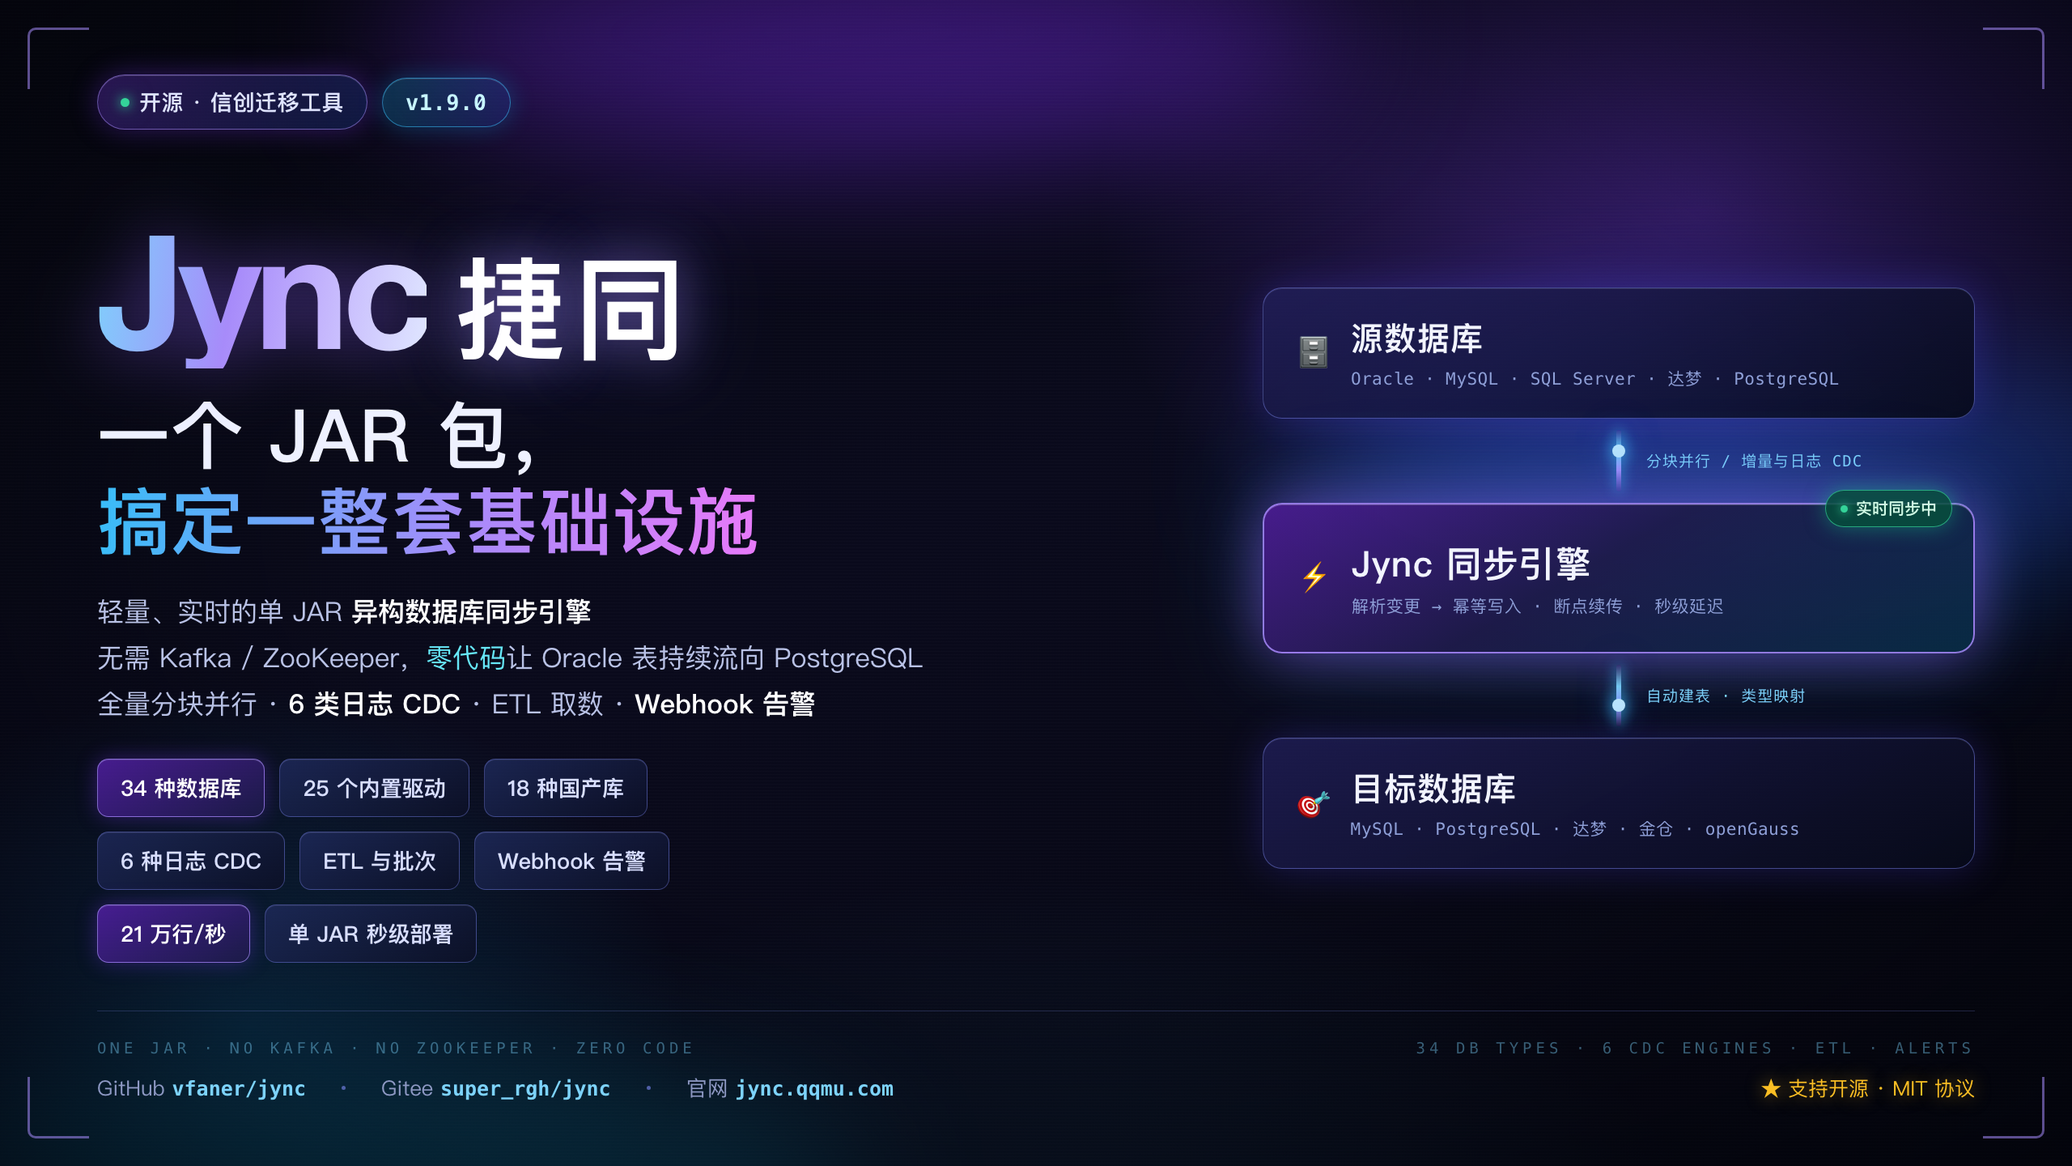
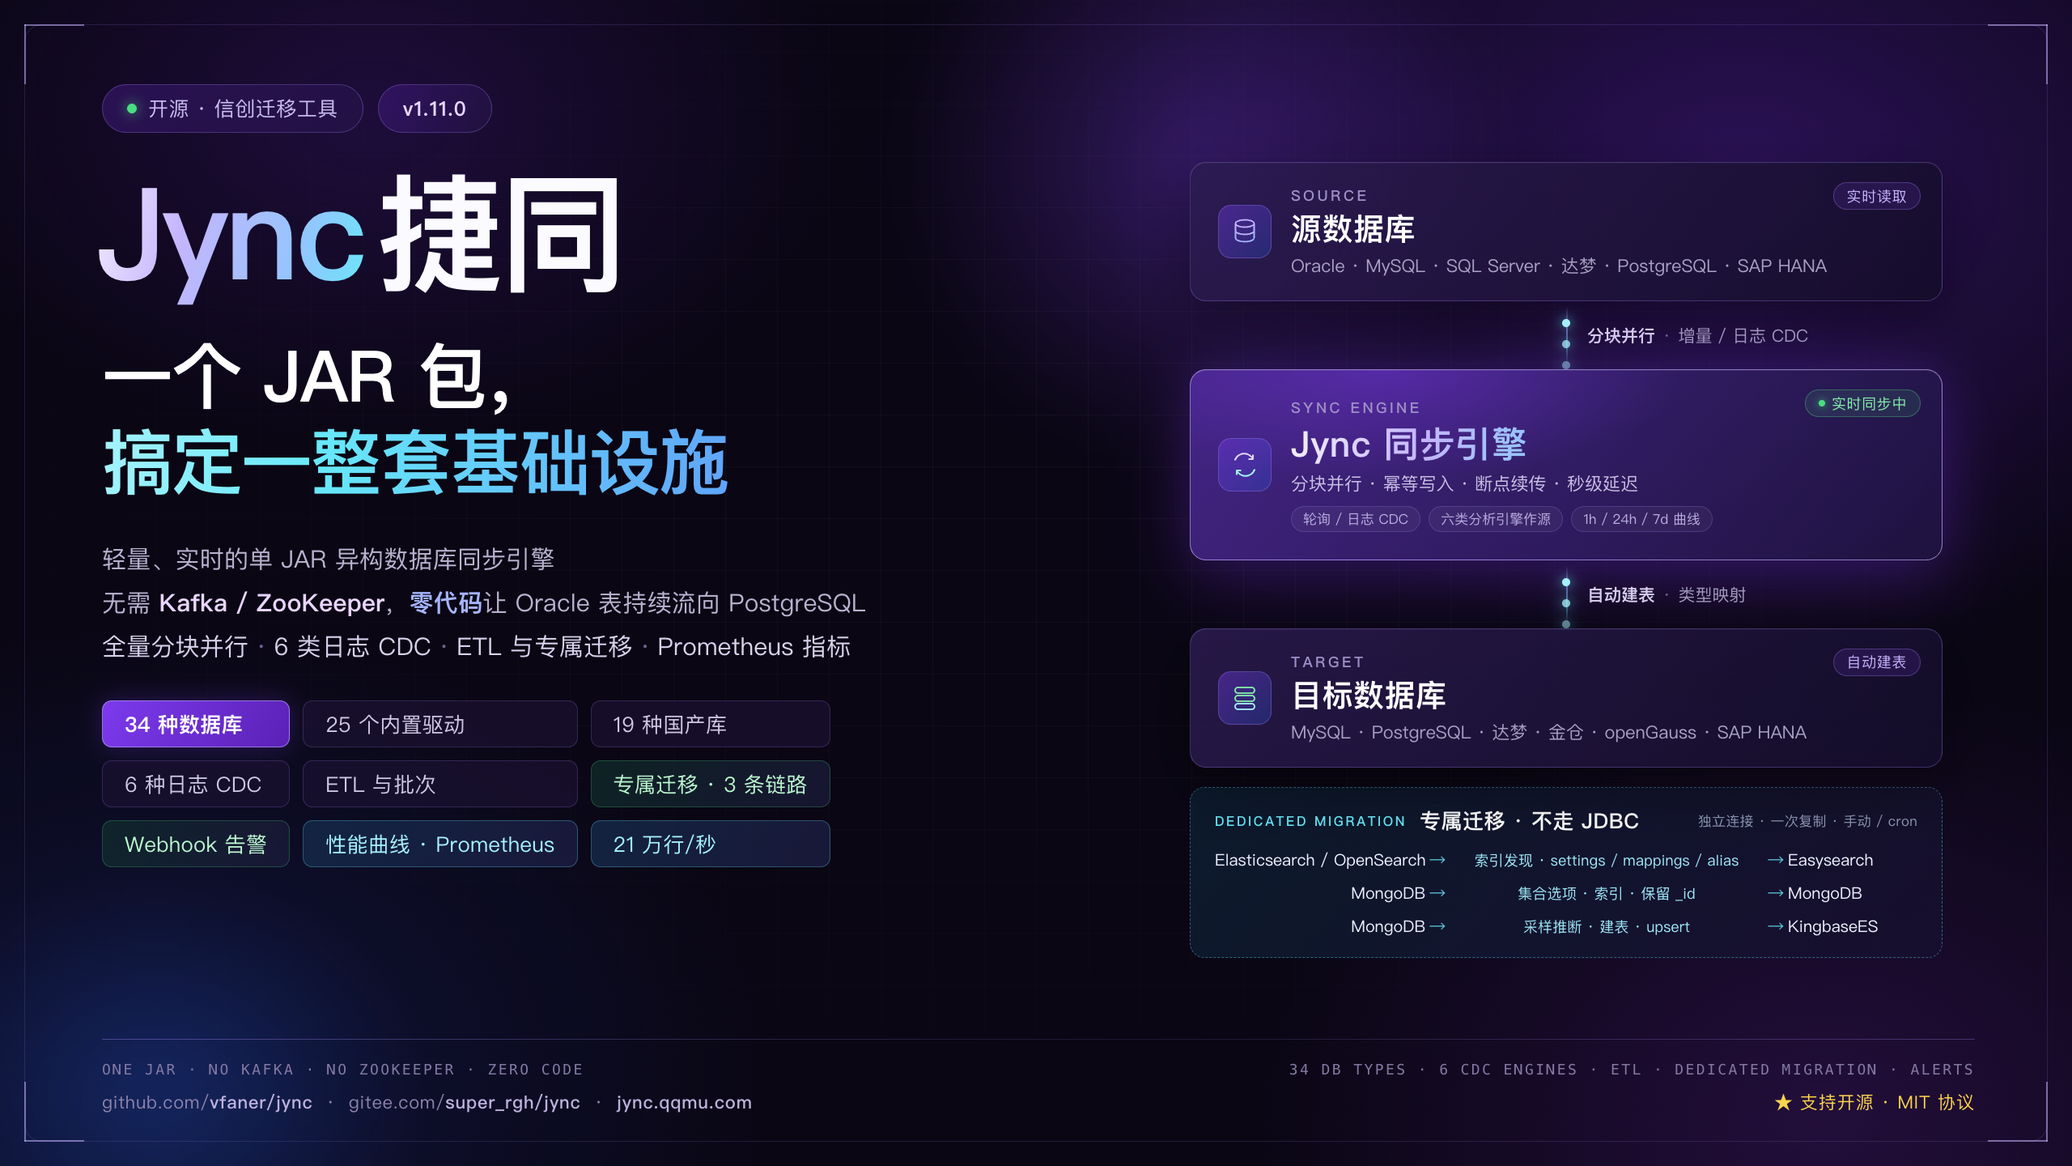
docs(readme): 更新 README 与配图，补充专属迁移链路
- 首图改用 docs/images/jync.png，不再用整页长截图充当封面
- 简介、能力表、架构树补上三条不走 JDBC 的专属迁移链路，并说明它们与
  实时同步、ETL 的连接模型隔离
- 重新生成数据库支持图，加入 04 专属迁移分组
- 测试数更新为 4439（4438 通过）

diff --git a/README_EN.md b/README_EN.md
@@ -9,9 +9,9 @@
 [![Java 17+](https://img.shields.io/badge/Java-17%2B-orange.svg)](https://openjdk.org/)
 [![Spring Boot 2.7](https://img.shields.io/badge/Spring%20Boot-2.7-brightgreen.svg)](https://spring.io/projects/spring-boot)
 
-![Jync · Heterogeneous Database Real-Time Sync](https://jync.qqmu.com/images/jync_xl.webp)
+![Jync · Heterogeneous Database Real-Time Sync](docs/images/jync.png)
 
-An out-of-the-box web application that keeps **structure and data** in sync between **heterogeneous databases**: start one jar, pick **34 built-in database types (plus custom types)** in a browser, and a sync or ETL pipeline is running — six of them (Doris, ClickHouse, Hive, Impala, Elasticsearch, MongoDB) are analytic engines usable as real-time sync **sources** (polling / full compare only) and in ETL. No Kafka, no Flink, no ZooKeeper, and not a line of job code.
+An out-of-the-box web application that keeps **structure and data** in sync between **heterogeneous databases**: start one jar, pick **34 built-in database types (plus custom types)** in a browser, and a sync or ETL pipeline is running — search and document data additionally gets three **dedicated migration** chains that skip JDBC (Elasticsearch / OpenSearch → Easysearch, MongoDB → MongoDB, MongoDB → KingbaseES). Six of those types (Doris, ClickHouse, Hive, Impala, Elasticsearch, MongoDB) are analytic engines usable as real-time sync **sources** (polling / full compare only) and in ETL. No Kafka, no Flink, no ZooKeeper, and not a line of job code.
 
 - **Zero external dependencies**: a Spring Boot monolith with Thymeleaf server-side rendering, Quartz and an embedded H2 metadata store. Runs air-gapped.
 - **Full load is not a bulk query import**: keyset chunking, in-table parallelism, streamed result sets, per-chunk commits and checkpoints — single-table throughput reaches the **hundreds of thousands of rows per second** range.
@@ -19,6 +19,7 @@ An out-of-the-box web application that keeps **structure and data** in sync betw
 - **Structure travels with data**: missing tables, indexes, views and procedures are created automatically, with built-in dialect type mapping and function conversion.
 - **Resumable by design**: crashes, network drops and killed processes resume from the last checkpoint; every write is idempotent, and changes made while Jync was down are caught up on restart.
 - **Failures reach you**: seven fault categories — sync failures, CDC stalls, data drift and more — can be pushed to DingTalk, WeCom, Feishu or a custom Webhook.
+- **Dedicated migration too**: Elasticsearch / OpenSearch → Easysearch, MongoDB → MongoDB and MongoDB → KingbaseES copy whole indexes or collections over their own connection model, outside JDBC, leaving sync and ETL untouched.
 
 | Resource | Link |
 |---|---|
@@ -264,15 +265,15 @@ Fixed rules apply to string columns **before rows are written to the target**; t
 <a name="databases"></a>
 ## Supported databases
 
-**34 built-in types**, 25 of them with bundled drivers. The map below is from the website: sources on the left, the two engines in the middle, targets on the right; each chip carries the modes it supports. Click it for the full reference.
+**34 built-in types**, 25 of them with bundled drivers. The map below is from the website: the upper part is the JDBC real-time sync / ETL matrix (sources → two engines → targets), the bottom is the separate **dedicated migration** chain; click it for the full reference.
 
-[![Database capability map: sources, sync engines and targets](docs/images/jync_dbmaps.webp)](https://jync.qqmu.com/database.html)
+[![Database capability map and dedicated migration chains](docs/images/jync_dbmaps.webp)](https://jync.qqmu.com/database.html)
 
 - **Custom types**: JDBC URL, driver class and driver jar path, loaded at runtime in an isolated `URLClassLoader`; pick a dialect family (generic / Oracle / MySQL / PostgreSQL / SQL Server / DB2 / SAP HANA).
 - **Bundled drivers**: everything except **GBase, Oscar, Huawei GaussDB, SAP HANA, ClickHouse, Hive, Impala, Elasticsearch and MongoDB (Atlas SQL)** ships with the jar. Those vendors publish no redistributable artifact, so supply the jar and path; the driver class can be overridden on the same card.
 - **Protocol-compatible presets**: GreatDB, UPDRDB and KunDB speak the MySQL protocol; RASESQL and SeaboxSQL speak the PostgreSQL protocol, reusing bundled drivers and dialect families.
 - **Analytic / search engines**: Doris, ClickHouse, Hive, Impala, Elasticsearch and MongoDB have no log-based CDC, so they are **real-time sync sources only** (polling / full compare) and **never targets**; in ETL all but Elasticsearch and MongoDB can be written. MongoDB has two paths: the Atlas SQL JDBC preset and the bundled native driver.
-- **Dedicated migration is not JDBC**: Elasticsearch/OpenSearch → Easysearch, MongoDB → MongoDB and MongoDB → KingbaseES use dedicated connections and tasks, outside the capability matrix above; credentials live in encrypted fields only, and no password is allowed inside a MongoDB URI or Kingbase JDBC URL. See [Known limitations](docs/known-limitations.md#11-专属迁移esopensearch--easysearchmongodb--mongodb--kingbasees).
+- **Dedicated migration is not JDBC**: Elasticsearch/OpenSearch → Easysearch, MongoDB → MongoDB and MongoDB → KingbaseES use dedicated connections and tasks, outside the capability matrix above; the chains are on the [website's database page](https://jync.qqmu.com/database.html#dedicated-migration), credentials live in encrypted fields only, and no password is allowed inside a MongoDB URI or Kingbase JDBC URL. See [Known limitations](docs/known-limitations.md#11-专属迁移esopensearch--easysearchmongodb--mongodb--kingbasees).
 - The GaussDB vs openGauss distinction, TDSQL / PolarDB editions and HANA's CDC limits are covered on the [website's database page](https://jync.qqmu.com/database.html); driver versions and licences are in [THIRD_PARTY_LICENSES.md](THIRD_PARTY_LICENSES.md).
 
 ---
@@ -361,6 +362,25 @@ The most-used `sync.*` keys in `application.yml` (full reference: [User Guide (P
 | `sync.ai.enabled` | `true` | `false` removes the AI menu and endpoint |
 | `app.update-check.enabled` | `true` | New-version check; `false` makes no outbound request |
 | `metrics.enabled` | `true` | Sampling master switch; does not affect the sync path |
+
+Log-based CDC settings (ignore them unless CDC is enabled):
+
+| Key | Default | Meaning |
+|---|---|---|
+| `sync.cdc.server-id-offset` | `612000` | Fake MySQL replica server-id base; id = offset + task id |
+| `sync.cdc.lock-ttl-ms` | `30000` | CDC consumer lease |
+| `sync.cdc.supervise-interval-ms` | `10000` | CDC lease supervision period |
+| `sync.cdc.connect-timeout-ms` | `10000` | Timeout for connecting to the source |
+| `sync.cdc.reconnect-backoff-ms` | `1000` | Initial reconnect backoff |
+| `sync.cdc.reconnect-backoff-max-ms` | `60000` | Reconnect backoff ceiling |
+| `sync.cdc.max-transaction-rows` / `max-transaction-bytes` | `1000000` / `512 MiB` | Per-source-transaction buffer cap; exceeding it parks the stream; `0` unlimited |
+| `sync.cdc.logminer.batch-size` | `10000` | LogMiner rows per batch |
+| `sync.cdc.logminer.idle-poll-ms` | `1000` | LogMiner idle sleep |
+| `sync.cdc.logminer.missing-lob-policy` | `skip` | Out-of-line LOB that cannot be restored: `skip` counts and continues, `fail` parks |
+| `sync.cdc.pg.idle-poll-ms` | `500` | PostgreSQL logical decoding idle sleep |
+| `sync.cdc.pg.wal-retention-warn-bytes` | `4294967296` | Panel warning for WAL held by a slot (4 GiB) |
+| `sync.cdc.mssql.idle-poll-ms` | `1000` | SQL Server CDC idle sleep |
+| `sync.cdc.change-window-ms` | `10000` | CDC change-log aggregation window; `0` off |
 
 > Connection passwords, AI keys and alert webhook URLs are stored with AES-256 encryption and an `enc:` prefix that prevents double encryption. When the key is left empty, the first start generates it into `data/<db>.key`.
 
@@ -479,6 +499,7 @@ com.qqmu.jync
 │   ├── sync         SyncEngine, DataSyncService, StructureSyncService, DdlExecutor
 │   ├── cdc          binlog / LogMiner / PG / SQL Server / YStream consumers
 │   ├── etl          extraction, write modes, checkpoints, batches
+│   ├── migration    dedicated migration: connection adapters, ES/OpenSearch → Easysearch, MongoDB → MongoDB / KingbaseES
 │   ├── alert        fault collection, evaluation, Webhook delivery
 │   ├── task         Quartz scheduling, three-layer locks, context assembly, startup recovery
 │   ├── lob          streamed LOB reads, binding and spilling
@@ -490,6 +511,7 @@ com.qqmu.jync
 - **Transactions**: cursor advancement and lock acquisition use `REQUIRES_NEW` so they do not roll back with data writes.
 - **Schedule reconciliation**: in multi-instance deployments every node aligns its local Quartz schedules with the enabled flags in the shared store.
 - **Alert state**: fault lifecycles live in the database, so nodes and failovers share one clock.
+- **Chain isolation**: sync and ETL use JDBC connections and tasks; dedicated migration has its own connection model (search / MongoDB / KingbaseES adapters validate endpoints and credentials per kind) and its own run records, so it never touches the JDBC pools or the JDBC capability matrix.
 
 ---
 
@@ -507,7 +529,7 @@ com.qqmu.jync
 mvn test
 ```
 
-**4,433 tests: 4,432 pass, and one Linux-only key-file permission case is skipped on macOS by environment.**
+**4,439 tests: 4,438 pass, and one Linux-only key-file permission case is skipped on macOS by environment.**
 
 Coverage highlights:
 

diff --git a/README.md b/README.md
@@ -9,15 +9,16 @@
 [![Java 17+](https://img.shields.io/badge/Java-17%2B-orange.svg)](https://openjdk.org/)
 [![Spring Boot 2.7](https://img.shields.io/badge/Spring%20Boot-2.7-brightgreen.svg)](https://spring.io/projects/spring-boot)
 
-![Jync 捷同 · 异构数据库实时同步工具](https://jync.qqmu.com/images/jync_xl.webp)
+![Jync 捷同 · 异构数据库实时同步工具](docs/images/jync.png)
 
-在**异构数据库**之间持续同步**结构与数据**的开箱即用 Web 应用：单个 jar 启动，浏览器点选即可在内置的 **34 种数据库（另支持自定义类型）** 之间建立同步或 ETL 链路；其中 Doris、ClickHouse、Hive、Impala、Elasticsearch、MongoDB 六种分析型引擎可作为实时同步的**源**（仅轮询 / 全表比对），也可用于 ETL。不需要 Kafka、Flink、ZooKeeper，也不需要编写一行作业代码。
+在**异构数据库**之间持续同步**结构与数据**的开箱即用 Web 应用：单个 jar 启动，浏览器点选即可在内置的 **34 种数据库（另支持自定义类型）** 之间建立同步或 ETL 链路；搜索与文档型数据另有三条不走 JDBC 的**专属迁移**链路（Elasticsearch / OpenSearch → Easysearch、MongoDB → MongoDB、MongoDB → KingbaseES）。其中 Doris、ClickHouse、Hive、Impala、Elasticsearch、MongoDB 六种分析型引擎可作为实时同步的**源**（仅轮询 / 全表比对），也可用于 ETL。不需要 Kafka、Flink、ZooKeeper，也不需要编写一行作业代码。
 
 - **零外部依赖**：Spring Boot 单体 + Thymeleaf 服务端渲染 + Quartz + H2 内嵌元数据库，内网离线可用。
 - **全量不是批量查询导入**：主键 keyset 分块、单表内并行、结果集流式读取、逐块提交与检查点，单表吞吐可达 **20 万行/秒量级**。
 - **增量只有一条索引查询**：默认轮询模式只读游标之后的变化，一个只读账号即可；六类源库可切换日志 CDC，做到秒级延迟。
 - **结构与数据一起走**：目标库缺失时自动建表 / 索引 / 视图 / 存储过程，内置各方言类型映射与函数转换。
 - **可靠续传**：停机、断网、进程被杀都能从检查点继续，写入全部幂等，停机期间源库的变更重启后自动补齐。
+- **另有专属迁移**：Elasticsearch / OpenSearch → Easysearch、MongoDB → MongoDB、MongoDB → KingbaseES 三条链路不走 JDBC，用独立的连接模型整库复制索引或集合，与实时同步、ETL 互不影响。
 - **出了问题会通知你**：同步失败、CDC 停摆、数据漂移等七类故障可推送到钉钉、企业微信、飞书或自定义 Webhook。
 
 | 资源 | 地址 |
@@ -264,15 +265,15 @@ table=orders thread=full-load-orders rows=500000 changed=500000 elapsed=2.3s row
 <a name="databases"></a>
 ## 支持的数据库
 
-内置 **34 种**预设类型，其中二十五种驱动随包内置。下图是官网的数据库能力地图：左侧数据源、中间两种引擎、右侧目标，卡片标签标明它可参与的模式；点图可看完整说明。
+内置 **34 种**预设类型，其中二十五种驱动随包内置。下图是官网的数据库能力地图：上半部分是 JDBC 的实时同步 / ETL 矩阵（数据源 → 两种引擎 → 目标库），底部是独立的**专属迁移**链路；点图可看完整说明。
 
-[![数据库能力地图：数据源、同步引擎与目标库](docs/images/jync_dbmaps.webp)](https://jync.qqmu.com/database.html)
+[![数据库能力地图与专属迁移链路](docs/images/jync_dbmaps.webp)](https://jync.qqmu.com/database.html)
 
 - **自定义数据库**：JDBC URL + 驱动类名 + 驱动 jar 路径，运行时用独立 `URLClassLoader` 加载；可指定方言家族（通用 / Oracle / MySQL / PostgreSQL / SQL Server / DB2 / SAP HANA）。
 - **驱动内置**：除 **GBase、神通 Oscar、华为 GaussDB、SAP HANA、ClickHouse、Hive、Impala、Elasticsearch、MongoDB（Atlas SQL）** 外均随包内置；这些厂商的构件不可再分发，需自备 jar 并填写路径，驱动类名与预设不同时可在同一张卡片覆盖。
 - **协议兼容预设**：万里 GreatDB、银联 UPDRDB、星环 KunDB 兼容 MySQL；平安 RASESQL、东方金信 SeaboxSQL 兼容 PostgreSQL，复用内置驱动与对应方言族。
 - **分析型 / 搜索型引擎**：Doris、ClickHouse、Hive、Impala、Elasticsearch、MongoDB 没有日志 CDC，**只作实时同步的源**（轮询 / 全表比对），从不作为目标；ETL 中除 Elasticsearch 与 MongoDB 外都可写入。MongoDB 有 Atlas SQL JDBC 与随包内置的原生驱动两条路径。
-- **专属迁移不走 JDBC**：Elasticsearch/OpenSearch → Easysearch、MongoDB → MongoDB、MongoDB → KingbaseES 由独立的「专属连接」与迁移任务完成，不进入上面的能力矩阵；凭据只存加密字段，MongoDB URI 与 Kingbase JDBC URL 禁止写密码。边界见[已知限制](docs/known-limitations.md#11-专属迁移esopensearch--easysearchmongodb--mongodb--kingbasees)。
+- **专属迁移不走 JDBC**：Elasticsearch/OpenSearch → Easysearch、MongoDB → MongoDB、MongoDB → KingbaseES 由独立的「专属连接」与迁移任务完成，不进入上面的能力矩阵；链路见[官网数据库页](https://jync.qqmu.com/database.html#dedicated-migration)，凭据只存加密字段，MongoDB URI 与 Kingbase JDBC URL 禁止写密码，边界见[已知限制](docs/known-limitations.md#11-专属迁移esopensearch--easysearchmongodb--mongodb--kingbasees)。
 - GaussDB 与 openGauss 的区别、TDSQL / PolarDB 的分版本、HANA 的 CDC 限制等选型细节，见[官网数据库页](https://jync.qqmu.com/database.html)；驱动版本与许可证见 [THIRD_PARTY_LICENSES.md](THIRD_PARTY_LICENSES.md)。
 
 ---
@@ -361,6 +362,25 @@ sync:
 | `sync.ai.enabled` | `true` | 置 `false` 则 AI 菜单与接口一并下线 |
 | `app.update-check.enabled` | `true` | 新版本检查；关闭后不发起外网请求 |
 | `metrics.enabled` | `true` | 性能采样总开关，关闭不影响同步链路 |
+
+日志 CDC 相关（不启用 CDC 可忽略）：
+
+| 键 | 默认 | 说明 |
+|---|---|---|
+| `sync.cdc.server-id-offset` | `612000` | MySQL 假 replica server id 基数，实际 id = 偏移 + 任务 ID |
+| `sync.cdc.lock-ttl-ms` | `30000` | CDC 消费者租约时长 |
+| `sync.cdc.supervise-interval-ms` | `10000` | 各节点巡检并抢占 CDC 租约的周期 |
+| `sync.cdc.connect-timeout-ms` | `10000` | 连接源库的超时时间 |
+| `sync.cdc.reconnect-backoff-ms` | `1000` | 断线重连的初始退避 |
+| `sync.cdc.reconnect-backoff-max-ms` | `60000` | 断线重连的退避上限 |
+| `sync.cdc.max-transaction-rows` / `max-transaction-bytes` | `1000000` / `512 MiB` | 单个源事务的缓冲上限，超限按非瞬态失败停车；`0` 不限 |
+| `sync.cdc.logminer.batch-size` | `10000` | LogMiner 单批行数 |
+| `sync.cdc.logminer.idle-poll-ms` | `1000` | LogMiner 真空闲休眠 |
+| `sync.cdc.logminer.missing-lob-policy` | `skip` | 行外 LOB 无法还原时：`skip` 计数继续，`fail` 停车 |
+| `sync.cdc.pg.idle-poll-ms` | `500` | PostgreSQL 逻辑解码真空闲休眠 |
+| `sync.cdc.pg.wal-retention-warn-bytes` | `4294967296` | 复制槽滞留 WAL 的面板告警阈值（4 GiB） |
+| `sync.cdc.mssql.idle-poll-ms` | `1000` | SQL Server CDC 真空闲休眠 |
+| `sync.cdc.change-window-ms` | `10000` | CDC 变更日志按表聚合窗口；`0` 关闭 |
 
 > 连接密码、AI 密钥与告警 Webhook 地址以 AES-256 加密存储，`enc:` 前缀防止重复加密；密钥留空时首启自动生成并写入 `data/<库名>.key`。
 
@@ -479,6 +499,7 @@ com.qqmu.jync
 │   ├── sync         SyncEngine、DataSyncService、StructureSyncService、DdlExecutor
 │   ├── cdc          binlog / LogMiner / PG / SQL Server / YStream 消费者
 │   ├── etl          取数、写模式、检查点、批次
+│   ├── migration    专属迁移：连接适配器、ES/OpenSearch → Easysearch、MongoDB → MongoDB / KingbaseES
 │   ├── alert        故障采集、评估、Webhook 推送
 │   ├── task         Quartz 调度、三层锁、上下文装配、启动恢复
 │   ├── lob          大字段流式读取、绑定与落盘
@@ -490,6 +511,7 @@ com.qqmu.jync
 - **事务语义**：游标推进与锁获取使用 `REQUIRES_NEW`，避免与数据写入同事务回滚。
 - **调度对账**：多实例部署时，每个节点把本地 Quartz 调度与共享库中的启用标志对齐。
 - **告警状态**：故障的起止状态存数据库，多节点与故障切换共用同一个时钟。
+- **链路隔离**：实时同步与 ETL 走 JDBC 连接与任务；专属迁移有自己的连接模型（搜索 / MongoDB / KingbaseES 适配器按 kind 校验端点与凭据）和运行记录，不占用 JDBC 连接池，也不进入 JDBC 能力矩阵。
 
 ---
 
@@ -507,7 +529,7 @@ com.qqmu.jync
 mvn test
 ```
 
-**4433 个测试：4432 通过，1 个仅限 Linux 的密钥文件权限用例在 macOS 上按环境跳过。**
+**4439 个测试：4438 通过，1 个仅限 Linux 的密钥文件权限用例在 macOS 上按环境跳过。**
 
 重点覆盖：
 
